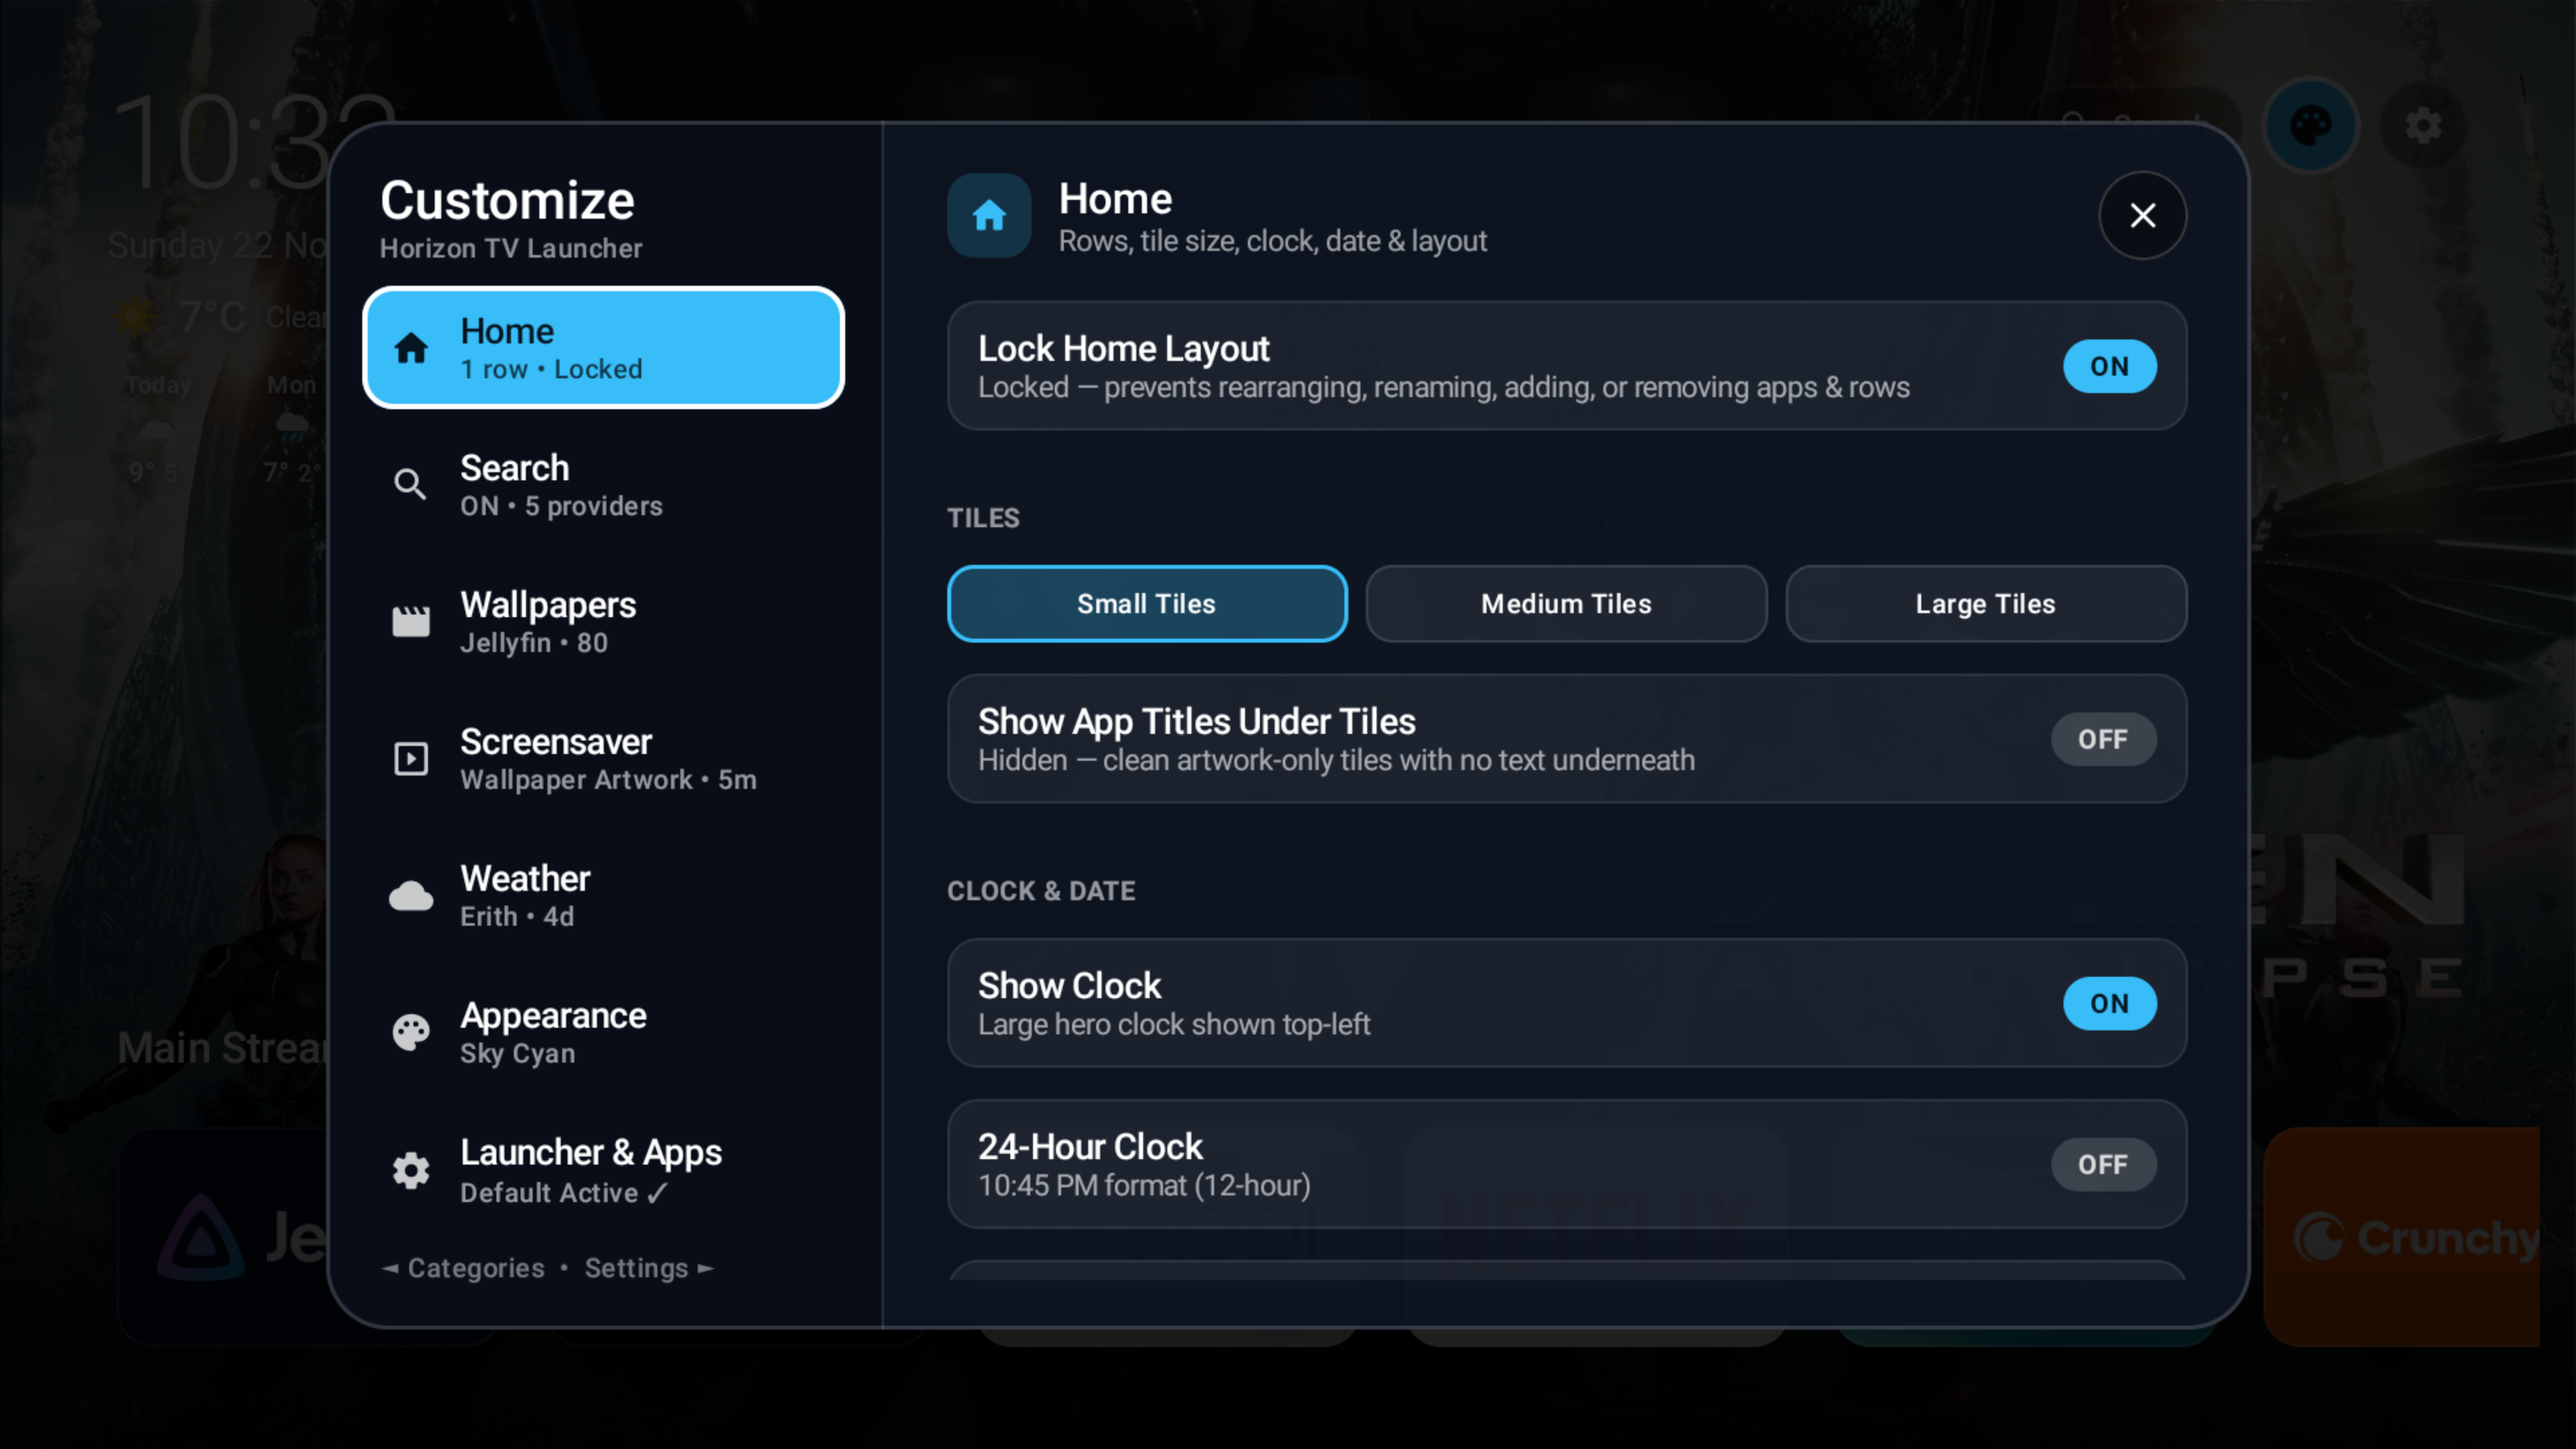
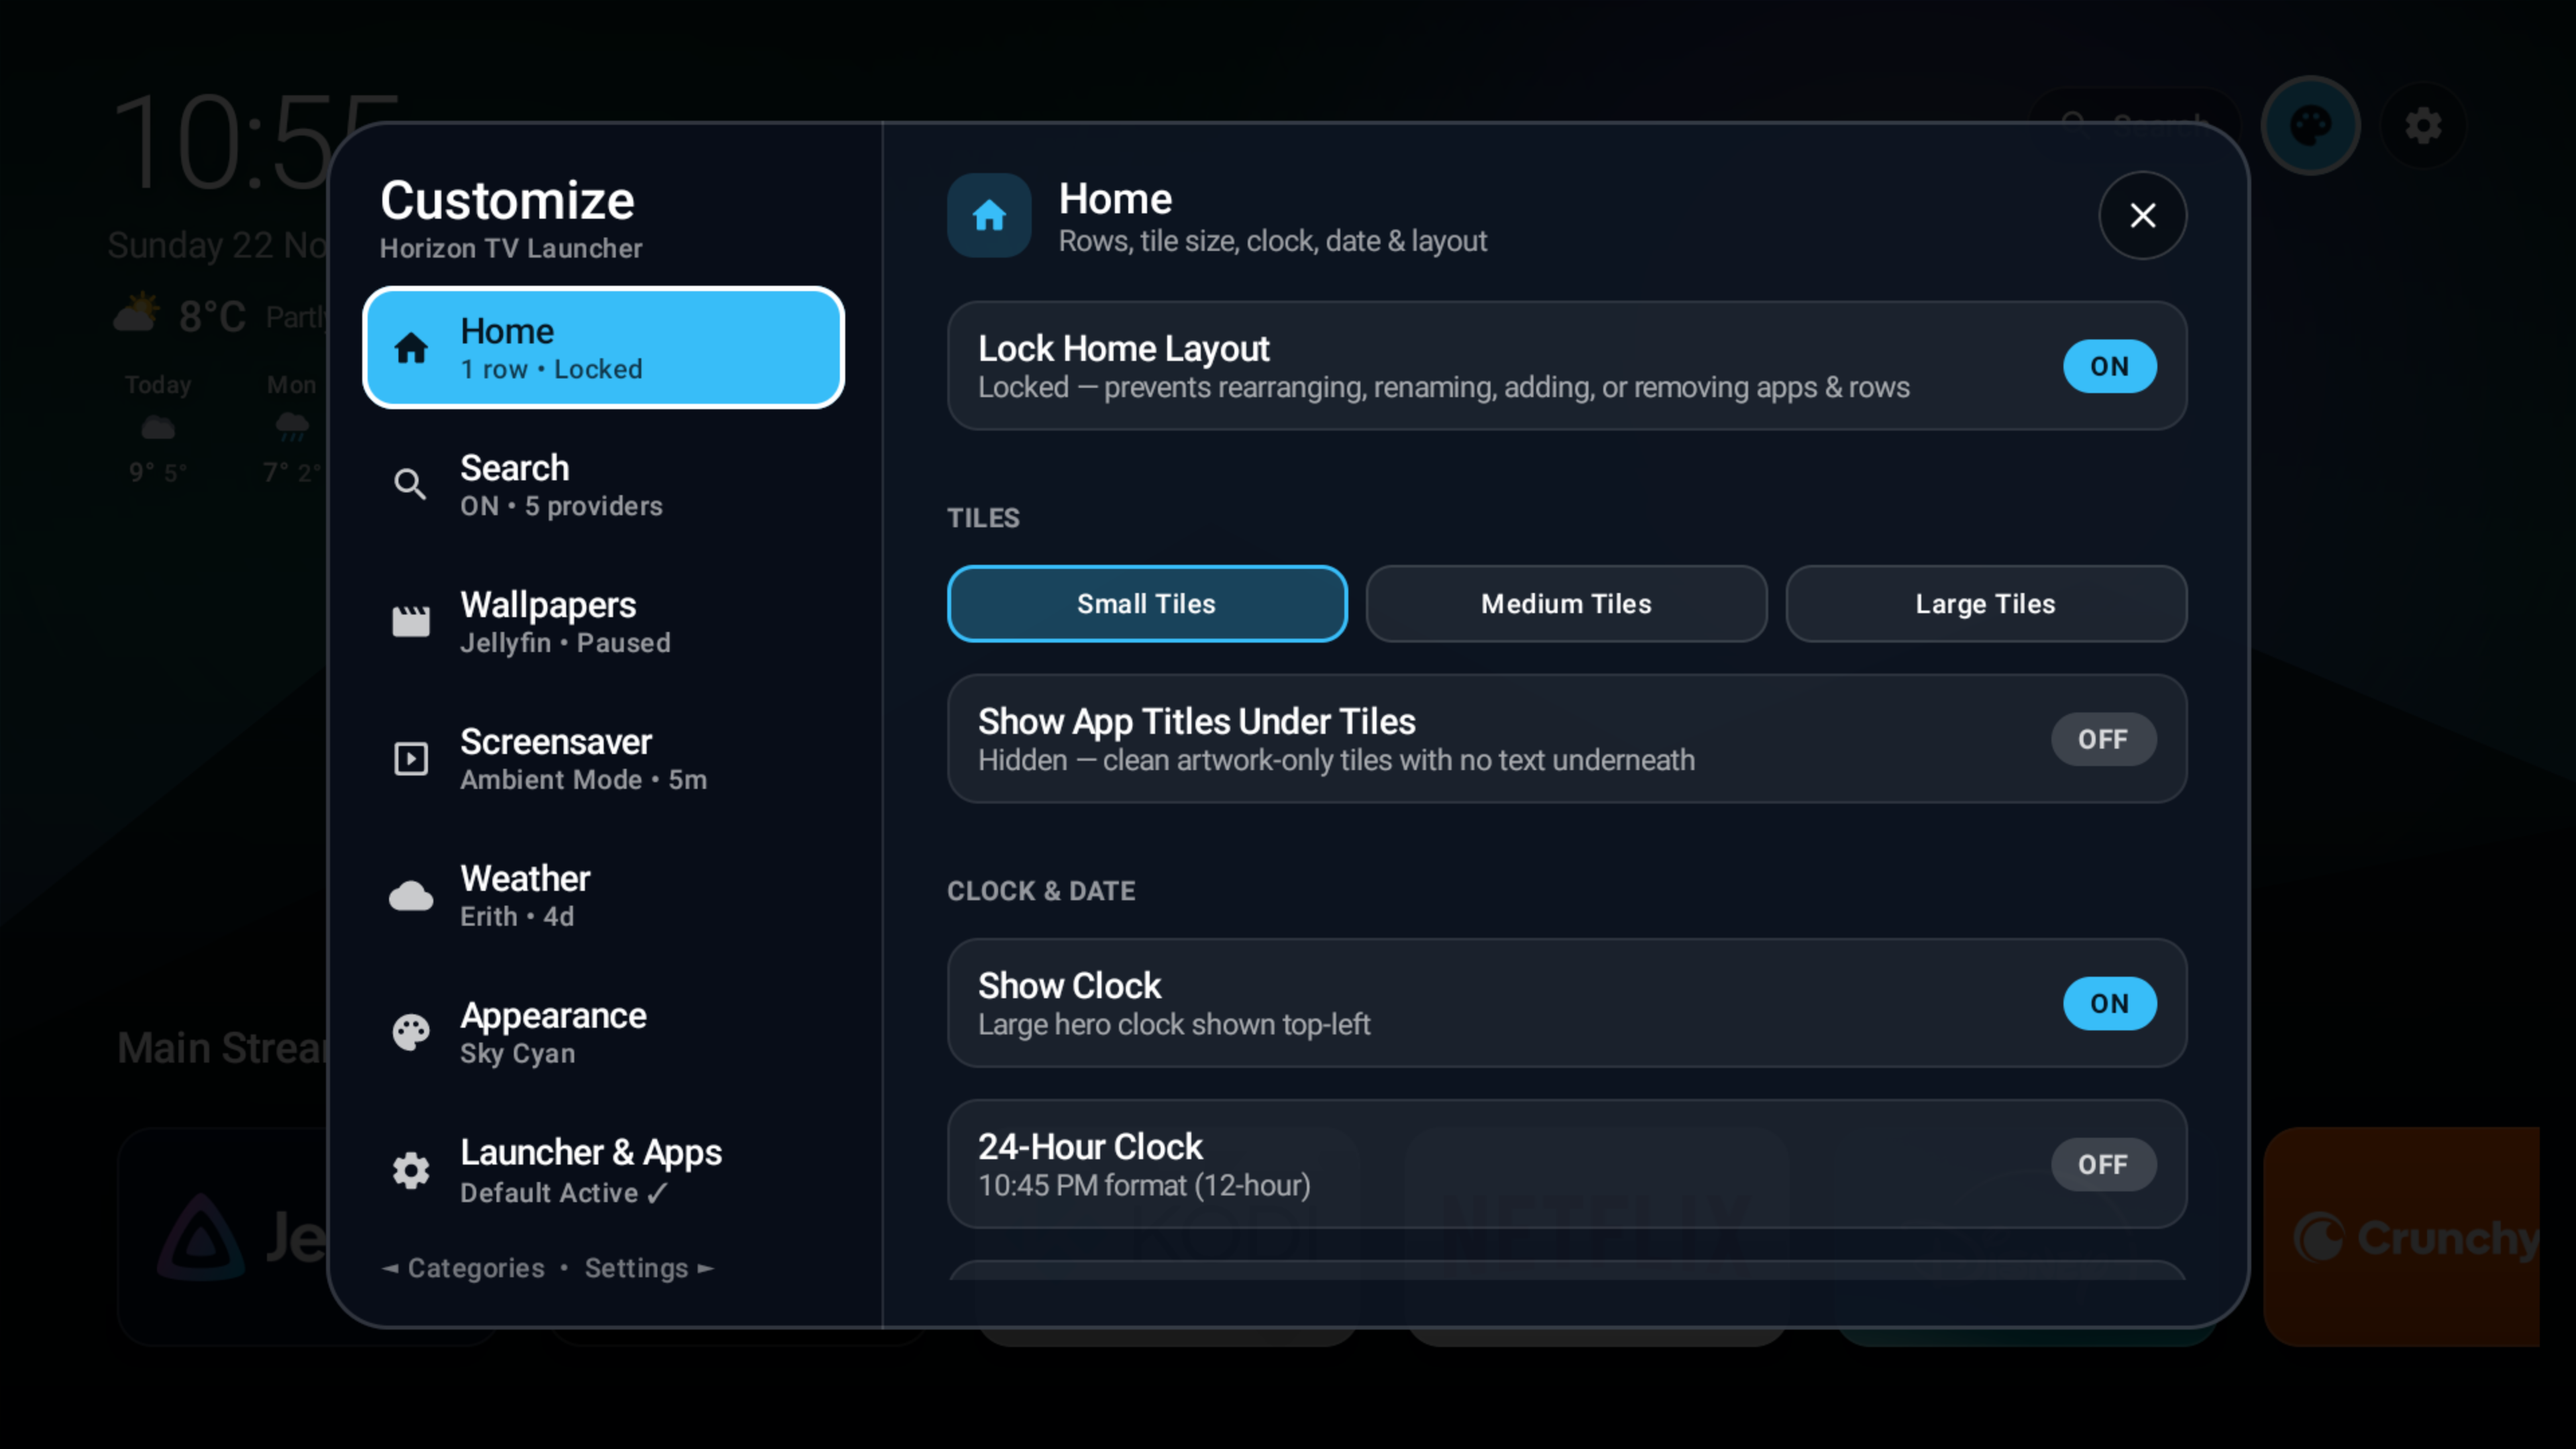
Switch screenshots to Ambient Theme and add MIT License, API attribution & trademark disclaimer

diff --git a/README.md b/README.md
@@ -95,3 +95,17 @@ cd HorizonTVLauncher
 ```
 
 The built APK will be generated at `app/build/outputs/apk/debug/app-debug.apk`.
+
+---
+
+## Third-Party APIs, Attribution & Trademarks
+
+- **TMDB:** This product uses the TMDB API but is not endorsed or certified by TMDB. Users supply their own personal TMDB API key.
+- **Weather:** Weather and forecast data is provided by [Open-Meteo](https://open-meteo.com/).
+- **Media Servers & Feeds:** Jellyfin, Plex, Emby, and Reddit wallpapers are fetched directly from the user's own configured servers or public read-only feeds at runtime; no third-party media artwork is bundled with this application.
+- **Trademarks & Disclaimer:** Horizon TV Launcher is an independent, open-source project and is not affiliated with, endorsed by, or sponsored by Google, Android TV, Nvidia, Netflix, Amazon Prime Video, Disney+, Apple TV, Paramount+, Crunchyroll, ITVX, BBC, Channel 4, JustWatch, Jellyfin, Plex, Emby, TMDB, or Reddit. All product names, logos, and brands are the property of their respective owners.
+
+## License
+
+Licensed under the [MIT License](LICENSE).
+
